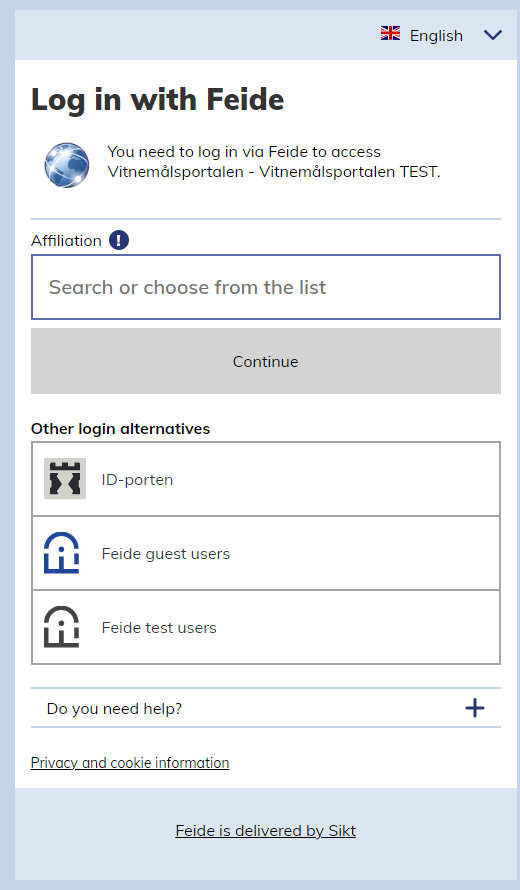
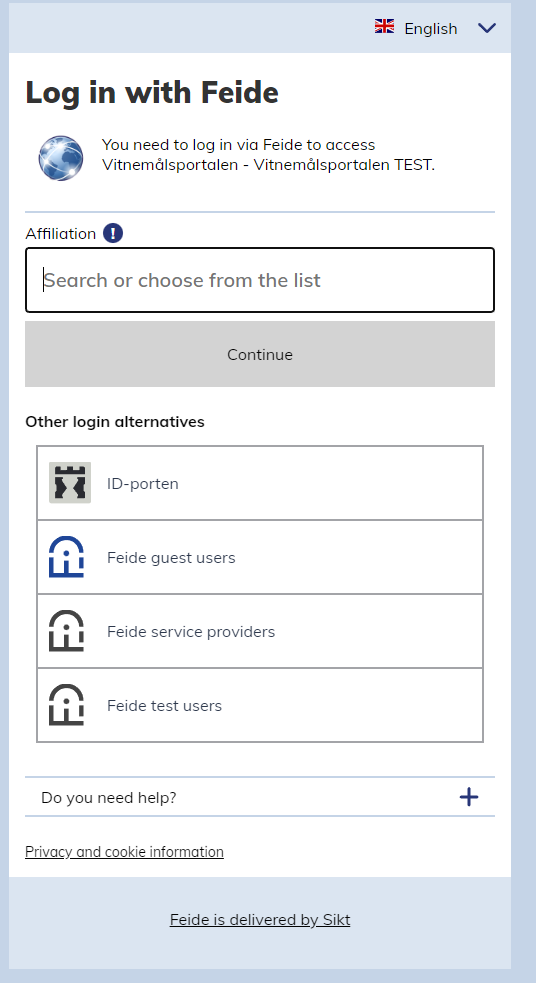
mathjert: updating feide test users

Changed region(s): [[0.0, 0.0, 1.0, 0.9708]]

diff --git a/Using_the_Norwegian_EMP_to_test_your_EMC.md b/Using_the_Norwegian_EMP_to_test_your_EMC.md
@@ -11,7 +11,6 @@ There are 3 openly available test users to use freely. These test users are avai
 
 | Username         | Password | Norwegian national identifier |
 |------------------|----------|-------------------------------|
-| ann_elevg        | 1qaz     | 10010277030                   |
 | bjorg_laererg    | 2wsx-    | 18048413567                   |
 | daniel_laerervgs | 4rfv     | 28017820933                   |
 
@@ -21,7 +20,7 @@ When redirected to the Norwegian EMP (Vitnemålsportalen) you will be offered tw
 
 ![Architecture](images/image201.png)
  
-Click the link “Log in using Feide” and you will be redirected to the Feide login page where you will click the button “Feide test users” or search for the affiliation “Service Provider”.
+Click the link “Log in using Feide” and you will be redirected to the Feide login page where you will click the button “Feide service providers” or search for the affiliation “Feide service providers”.
 
 ![Architecture](images/image202.png)
  
